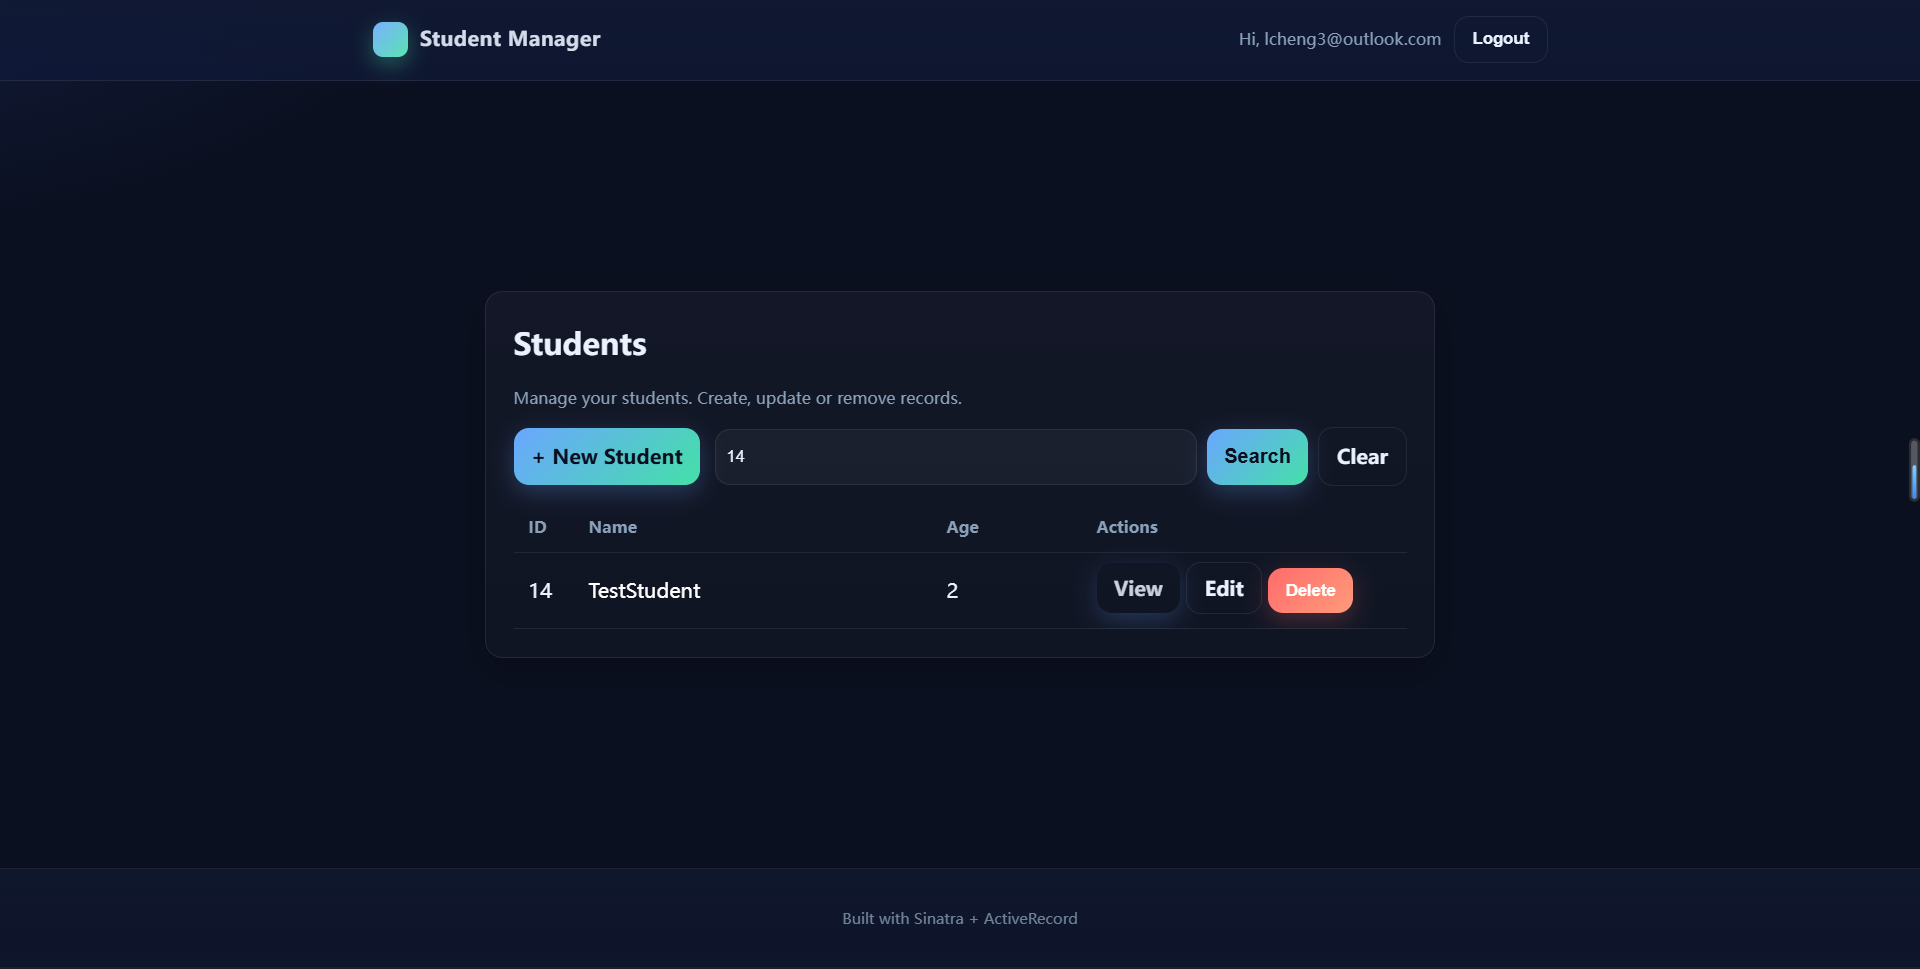
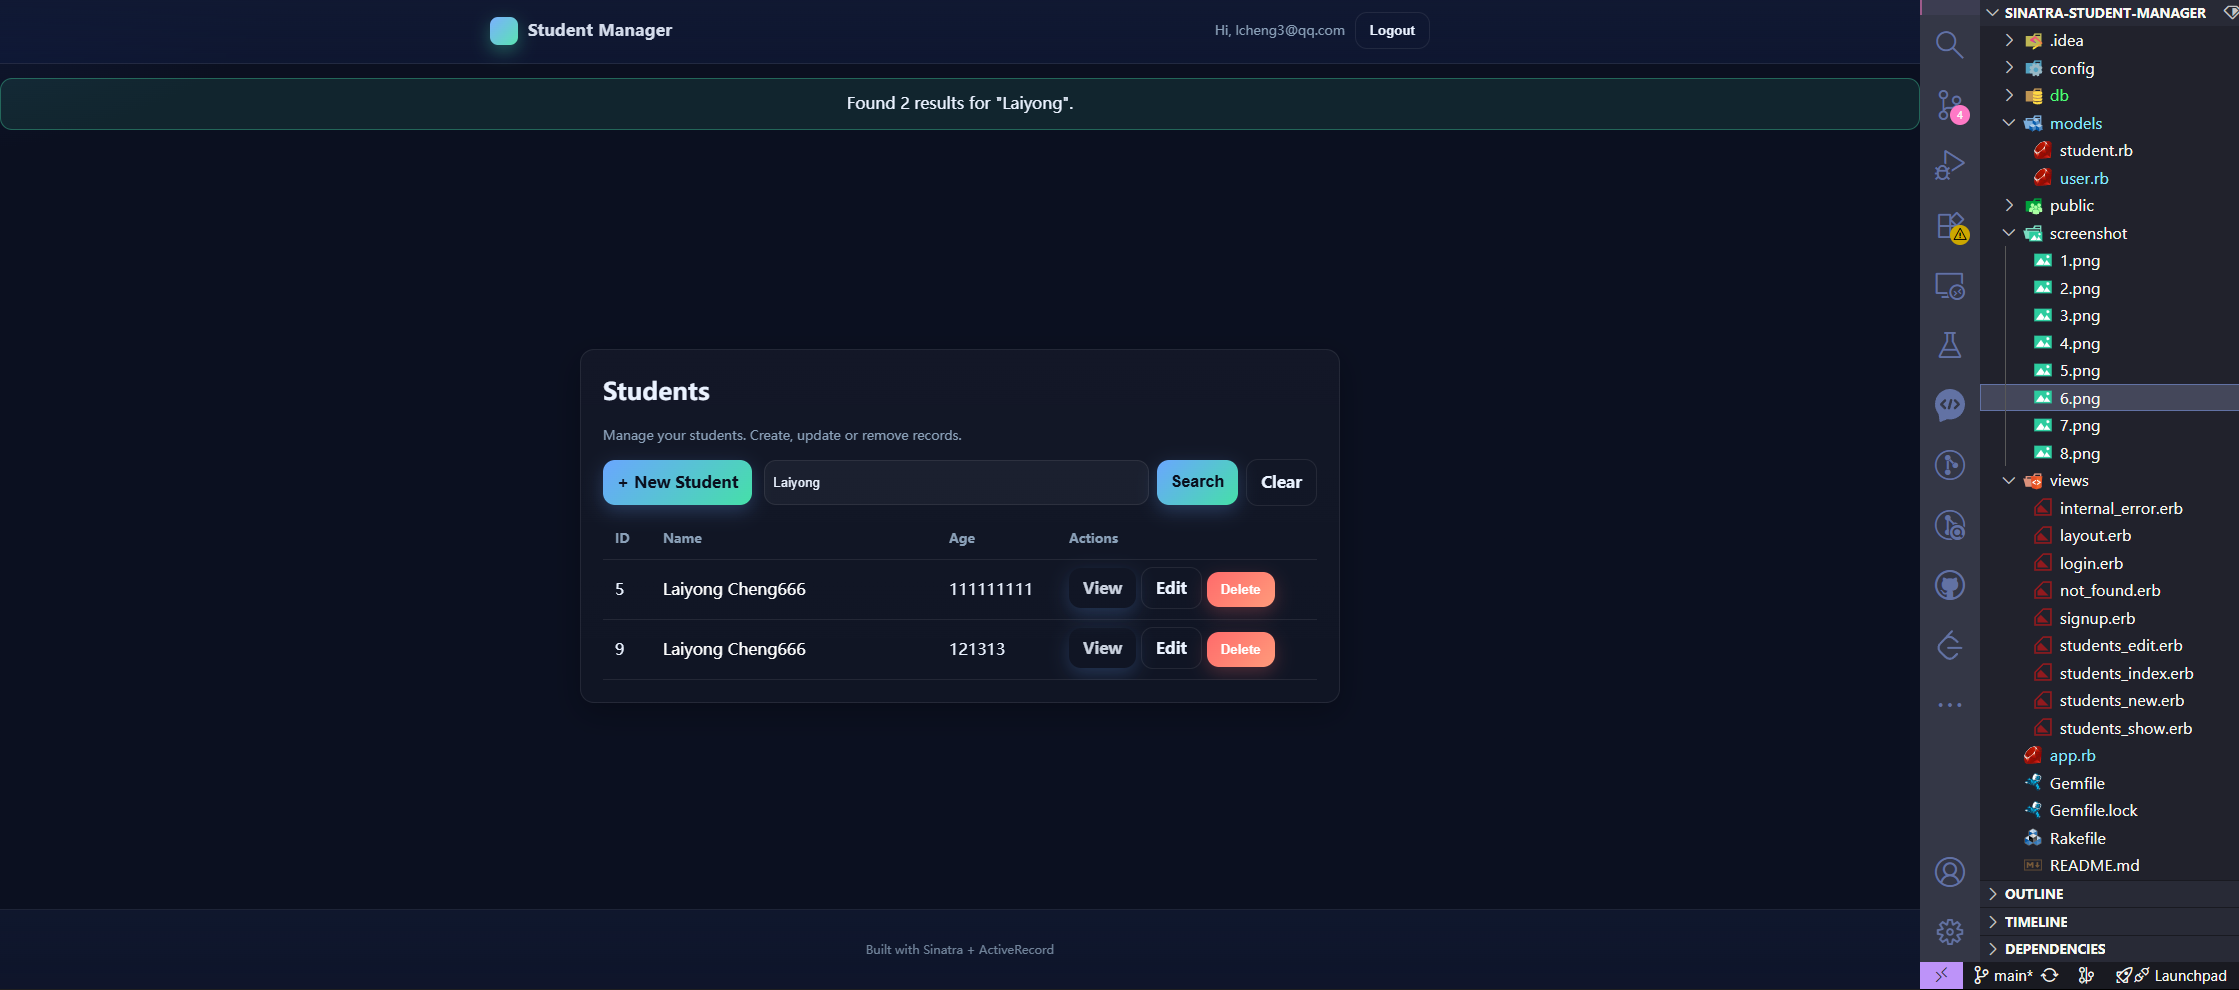
add prompt when search successfully and change password regular expression validation rule and update readme file

diff --git a/models/user.rb b/models/user.rb
@@ -5,9 +5,10 @@ class User < ActiveRecord::Base
   has_secure_password   # Requires bcrypt; provide password= /authenticate and other methods
   validates :email, presence: true, uniqueness: true,
                     format: { with: URI::MailTo::EMAIL_REGEXP, message: "must be a valid email address" }
-
-  validates :password, presence: true, length: { minimum: 6 },
-                       format: { with: /\A(?=.*[A-Za-z])(?=.*\d)[A-Za-z\d]+\z/,
+  # Special characters are allowed; length 6~72 bytes (bcrypt has a 72-byte limit)
+  validates :password, presence: true,
+                       length: { minimum: 6, maximum: 72 },
+                       format: { with: /\A(?=.*[A-Za-z])(?=.*\d).{6,72}\z/,
                                  message: "must include at least one letter and one number" },
                        if: -> { new_record? || !password.nil? }
 end

diff --git a/app.rb b/app.rb
@@ -193,6 +193,15 @@ get "/students" do
   total_pages = (total.to_f / per_page).ceil
   total_pages = 1 if total_pages == 0
 
+  # Search feedback (only displayed when 'q' is entered; to avoid refreshing every page, it can be displayed only on the first page).
+  if !q.empty? && page == 1
+    if total > 0
+      set_flash :success, %(Found #{total} result#{'s' if total != 1} for "#{q}".)
+    else
+      set_flash :info, %(No students found for "#{q}".)
+    end
+  end
+
   offset = (page - 1) * per_page
   @students = scope.limit(per_page).offset(offset)
   @page = page
